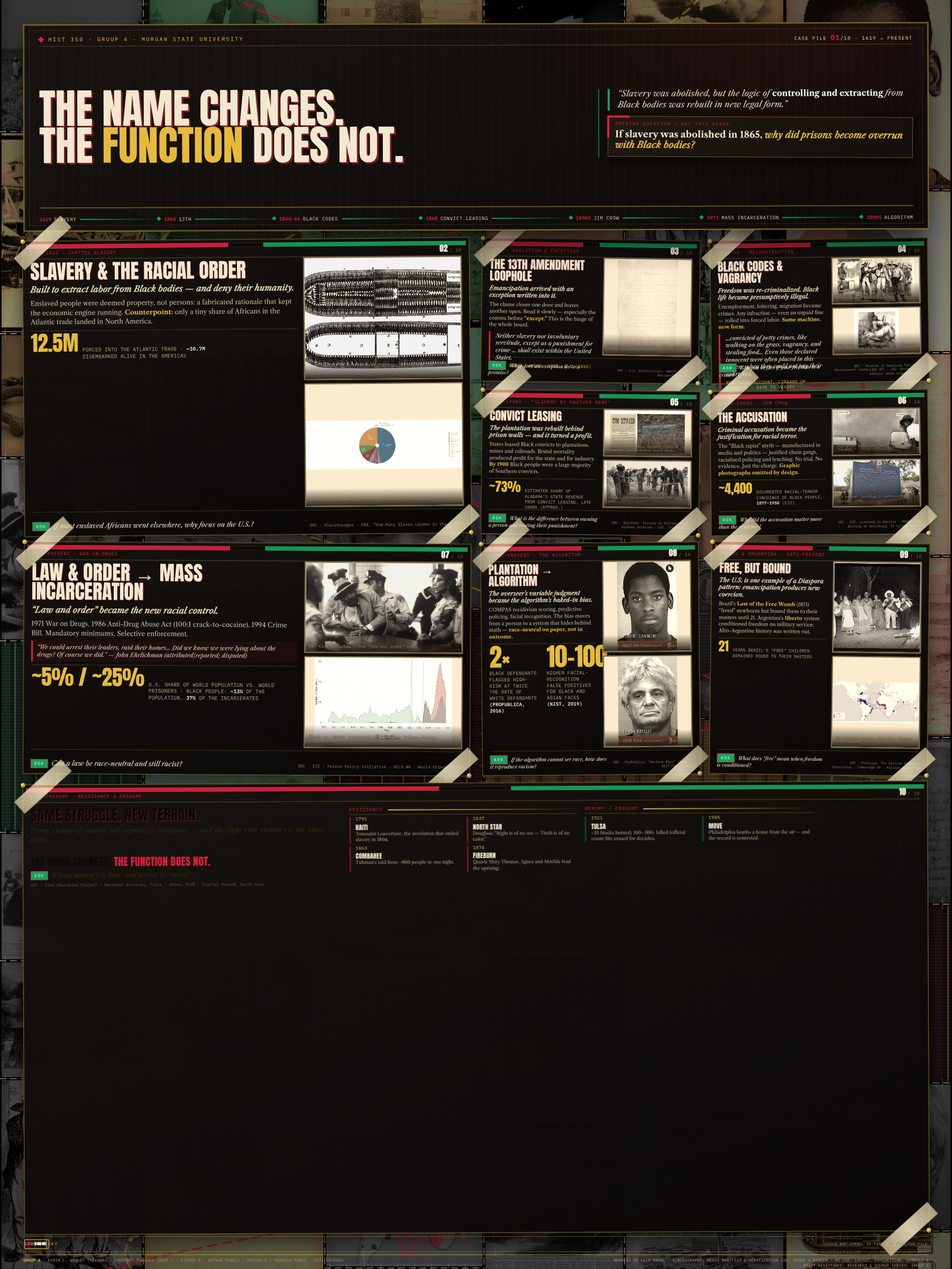
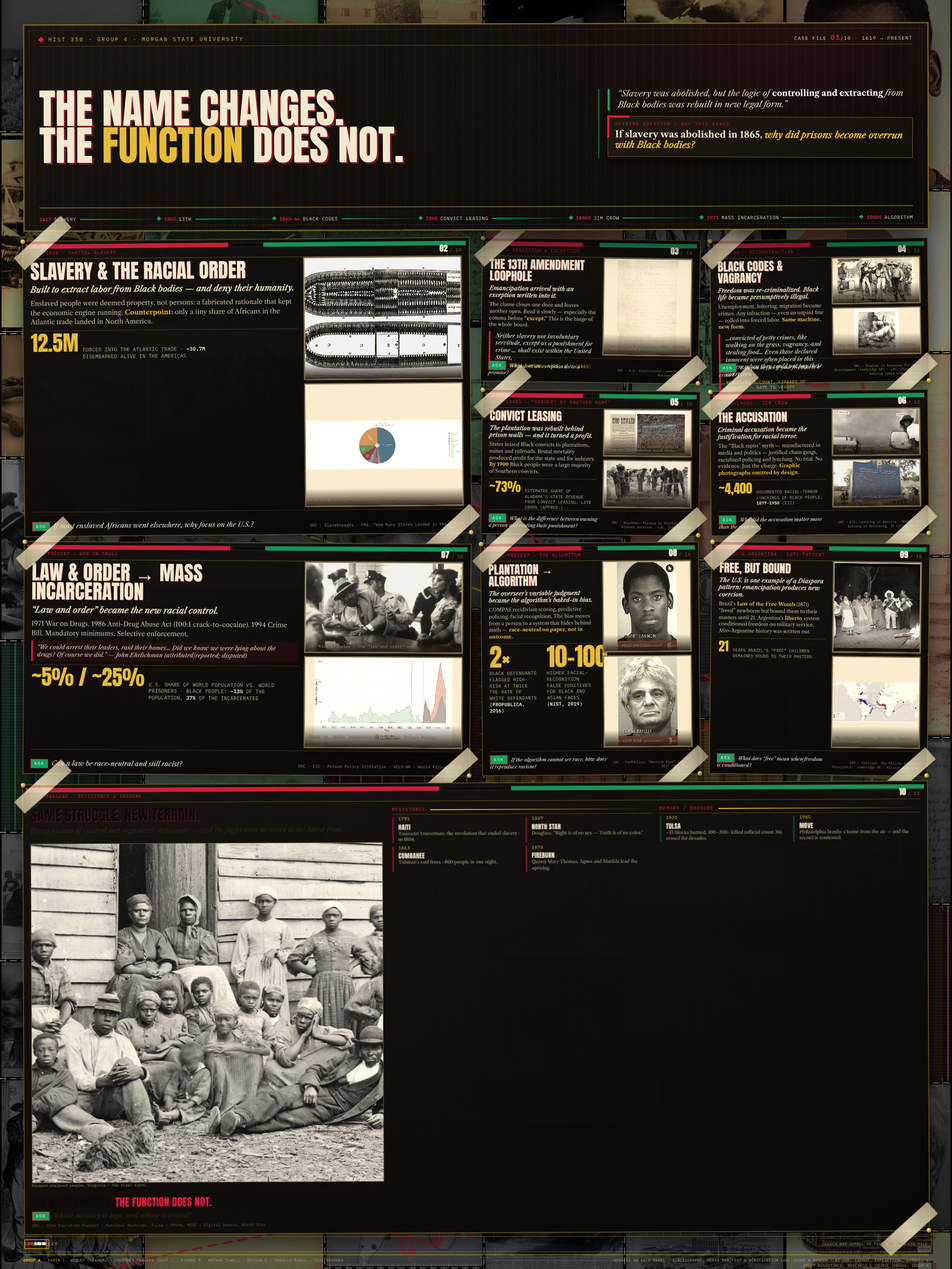
Fix quilt P10: show escaped-enslaved-people photo, remove empty downward space (p10 flex column + same-element layout selector)

diff --git a/infographic/assets/board_v4.css b/infographic/assets/board_v4.css
@@ -356,12 +356,13 @@ body.static{background:#000;}
 .lay-quilt .panel.p-sm .p-facts{font-size:9px;}
 .lay-quilt .panel.p-sm .ask{font-size:8.8px;}
 
-/* p10 in the quilt gets room for a hero image */
-.lay-quilt .p10 .p10-media{display:block;flex:1;min-height:0;margin:10px 0 8px;columns:1;}
-.lay-quilt .p10 .p10-media figure{margin:0;height:100%;display:flex;flex-direction:column;}
-.lay-quilt .p10 .p10-media img{width:100%;height:100%;object-fit:cover;flex:1;min-height:0;
+/* p10 in the quilt gets room for a hero image
+   (the layout class sits on the same element as .p10, so the selector is `.p10.lay-quilt`) */
+.p10.lay-quilt .p10-media{display:block;flex:1;min-height:180px;margin:10px 0 8px;}
+.p10.lay-quilt .p10-media figure{margin:0;height:100%;display:flex;flex-direction:column;}
+.p10.lay-quilt .p10-media img{width:100%;height:100%;object-fit:cover;flex:1;min-height:0;
   border:1px solid rgba(230,187,58,.4);filter:grayscale(.5) sepia(.25) contrast(1.05);}
-.lay-quilt .p10 .p10-media figcaption{font:7px/1.3 var(--mono);color:#a2967a;}
+.p10.lay-quilt .p10-media figcaption{font:7px/1.3 var(--mono);color:#a2967a;}
 
 /* ==========================================================================
    7. LAYOUT: ZINE — newsprint flyer / leaflet
@@ -501,7 +502,8 @@ body[data-layout="zine"] .res-item .y,body[data-layout="zine"] .mem-item .y{colo
 /* ==========================================================================
    8. P10 CLOSING PANEL (shared)
    ========================================================================== */
-.p10 .w-body{display:grid;grid-template-columns:1fr 1.5fr;gap:18px;height:100%;min-height:0;}
+.p10{display:flex;flex-direction:column;}
+.p10 .w-body{display:grid;grid-template-columns:1fr 1.5fr;gap:18px;flex:1;min-height:0;}
 .w-left{min-width:0;display:flex;flex-direction:column;}
 .p10 .p-title{font-size:28px;}
 .p10 .p-arg{font-size:13px;}
